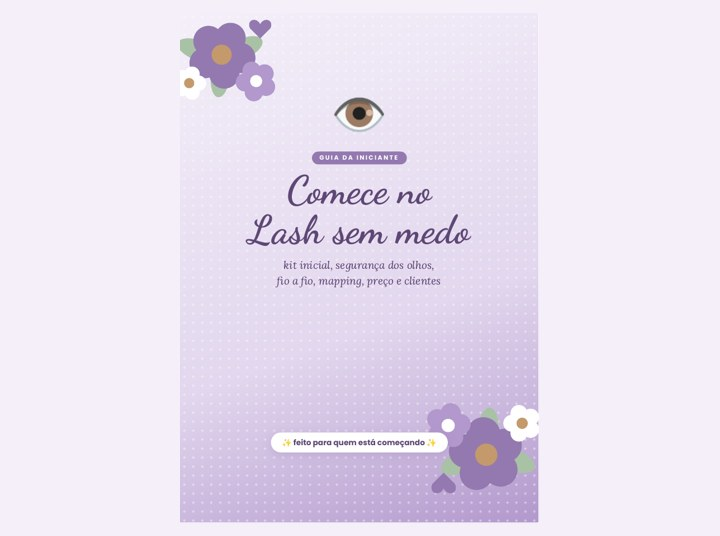
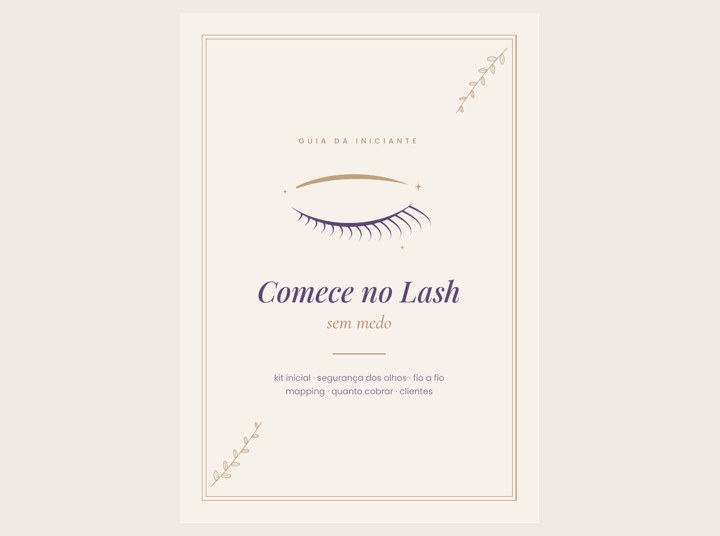
Loja: sem emoji, capas novas dos guias
Claude-Session: https://claude.ai/code/session_01AMBh8z4K8o9Aww49vDi5CL

Changed region(s): [[0.2444, 0.0299, 0.7639, 0.9851]]

diff --git a/loja/index.html b/loja/index.html
@@ -20,7 +20,7 @@ h1{font-family:'Dancing Script',cursive;font-size:46px;line-height:1;color:var(-
 .sub{color:var(--muted);margin:0 0 4px;font-size:15px}
 .how{display:flex;gap:10px;margin:18px 0 6px}
 .how div{flex:1;background:#fff;border:2px solid var(--soft);border-radius:18px;padding:10px 8px;text-align:center;font-size:12.5px}
-.how b{display:block;font-size:22px}
+.how b{display:flex;justify-content:center;margin-bottom:4px}
 .tabs{display:flex;gap:8px;overflow-x:auto;padding:14px 0 6px;position:sticky;top:0;background:linear-gradient(var(--bg),#fff7f5ee);z-index:5}
 .tabs button{flex:none;border:2px solid var(--soft);background:#fff;color:var(--deep);font:600 14px Poppins,Arial;border-radius:30px;padding:8px 16px;cursor:pointer}
 .tabs button.on{background:var(--main);border-color:var(--main);color:#fff}
@@ -60,11 +60,11 @@ footer{text-align:center;color:var(--muted);font-size:12px;margin:24px 0}
 <header>
   <span class="logo">VALE O PREÇO?</span>
   <h1>Planilhas &amp; Guias</h1>
-  <p class="sub">Prontas para usar no celular ou no computador ✨</p>
+  <p class="sub">Prontas para usar no celular ou no computador</p>
   <div class="how">
-    <div><b>💖</b>Escolha o que quer</div>
-    <div><b>💬</b>Chame no WhatsApp com a lista pronta</div>
-    <div><b>⚡</b>Pague no Pix e receba na hora</div>
+    <div><b><svg viewBox="0 0 48 48" width="30" fill="none" stroke="#8E4A5A" stroke-width="2.4" stroke-linecap="round" stroke-linejoin="round" xmlns="http://www.w3.org/2000/svg"><rect x="7" y="7" width="34" height="34" rx="8"/><path d="M15 25 l6 6 l12-14"/></svg></b>Escolha o que quer</div>
+    <div><b><svg viewBox="0 0 48 48" width="30" fill="none" stroke="#8E4A5A" stroke-width="2.4" stroke-linecap="round" stroke-linejoin="round" xmlns="http://www.w3.org/2000/svg"><path d="M9 39 l2.5-8 A15 15 0 1 1 17 37 Z"/><path d="M18 18 c0 7 5 12 12 12 l2-3 -4-2 -2 2 c-2-1-4-3-5-5 l2-2 -2-4 Z"/></svg></b>Chame no WhatsApp com a lista pronta</div>
+    <div><b><svg viewBox="0 0 48 48" width="30" fill="none" stroke="#8E4A5A" stroke-width="2.4" stroke-linecap="round" stroke-linejoin="round" xmlns="http://www.w3.org/2000/svg"><rect x="6" y="13" width="34" height="25" rx="5"/><path d="M6 20 H40 M40 24 h3 v9 h-3"/><circle cx="33" cy="28.5" r="1.6"/></svg></b>Pague no Pix e receba na hora</div>
   </div>
 </header>
 <nav class="tabs" id="tabs"></nav>
@@ -77,10 +77,10 @@ footer{text-align:center;color:var(--muted);font-size:12px;margin:24px 0}
 </section>
 <footer>Vale o Preço? · atendimento pelo WhatsApp</footer>
 </div>
-<div class="bar" id="bar"><div class="in"><div class="tot" id="tot"></div><a id="go" href="#">Pedir no WhatsApp 💬</a></div></div>
+<div class="bar" id="bar"><div class="in"><div class="tot" id="tot"></div><a id="go" href="#">Pedir no WhatsApp</a></div></div>
 <script>
 const WA = '5511917291381';
-const CATS = [['tudo', '✨ Tudo'], ['beleza', '💅 Beleza'], ['financas', '💸 Finanças'], ['guias', '📖 Guias'], ['combos', '🎁 Combos']];
+const CATS = [['tudo', 'Tudo'], ['beleza', 'Beleza'], ['financas', 'Finanças'], ['guias', 'Guias'], ['combos', 'Combos']];
 const AG = 'Agenda do dia, calendário do mês, clientes com retorno e aniversário, botão de WhatsApp com mensagem pronta, financeiro e calculadora de quanto cobrar.';
 const P = [
   {id: 'nail', cat: 'beleza', name: 'Agenda Nail Designer', em: '💅', price: 34.9, img: 'img/nail.jpg', desc: AG, hot: 'novidade'},
@@ -103,7 +103,7 @@ const vchoice = {};
 let cat = 'tudo';
 const brl = (v) => 'R$ ' + v.toFixed(2).replace('.', ',');
 const label = (p) => p.name + (p.vars ? ' (' + (vchoice[p.id] || p.vars[0]) + ')' : '');
-const waLink = (lines, total) => 'https://wa.me/' + WA + '?text=' + encodeURIComponent('Oi! Vi no TikTok e quero comprar:\n' + lines.join('\n') + (total ? '\nTotal: ' + brl(total) : '') + '\n\nPode me mandar o Pix? 💖');
+const waLink = (lines, total) => 'https://wa.me/' + WA + '?text=' + encodeURIComponent('Oi! Vi no TikTok e quero comprar:\n' + lines.join('\n') + (total ? '\nTotal: ' + brl(total) : '') + '\n\nPode me mandar o Pix?');
 function tabs() {
   document.getElementById('tabs').innerHTML = CATS.map(([k, t]) => `<button class="${k === cat ? 'on' : ''}" onclick="cat='${k}';render()">${t}</button>`).join('');
 }
@@ -113,10 +113,10 @@ function card(p) {
   return `<article class="card ${sel[p.id] ? 'sel' : ''}">
     <img src="${p.img}" alt="Prévia: ${p.name}" loading="lazy">
     <div class="body">
-      <div class="name">${p.em} ${p.name}${p.hot ? `<span class="badge">${p.hot}</span>` : ''}</div>
+      <div class="name">${p.name}${p.hot ? `<span class="badge">${p.hot}</span>` : ''}</div>
       <div class="desc">${p.desc}</div>${v}
       <div class="price">${p.was ? `<s>${brl(p.was)}</s>` : ''}${brl(p.price)}</div>
-      <div class="btns"><button class="add" onclick="sel['${p.id}']=!sel['${p.id}'];render()">${sel[p.id] ? '✓ Na lista' : '+ Adicionar'}</button><a class="one" href="${one}" target="_blank" rel="noopener">Quero essa 💬</a></div>
+      <div class="btns"><button class="add" onclick="sel['${p.id}']=!sel['${p.id}'];render()">${sel[p.id] ? '✓ Na lista' : '+ Adicionar'}</button><a class="one" href="${one}" target="_blank" rel="noopener">Quero essa</a></div>
     </div></article>`;
 }
 function render() {
